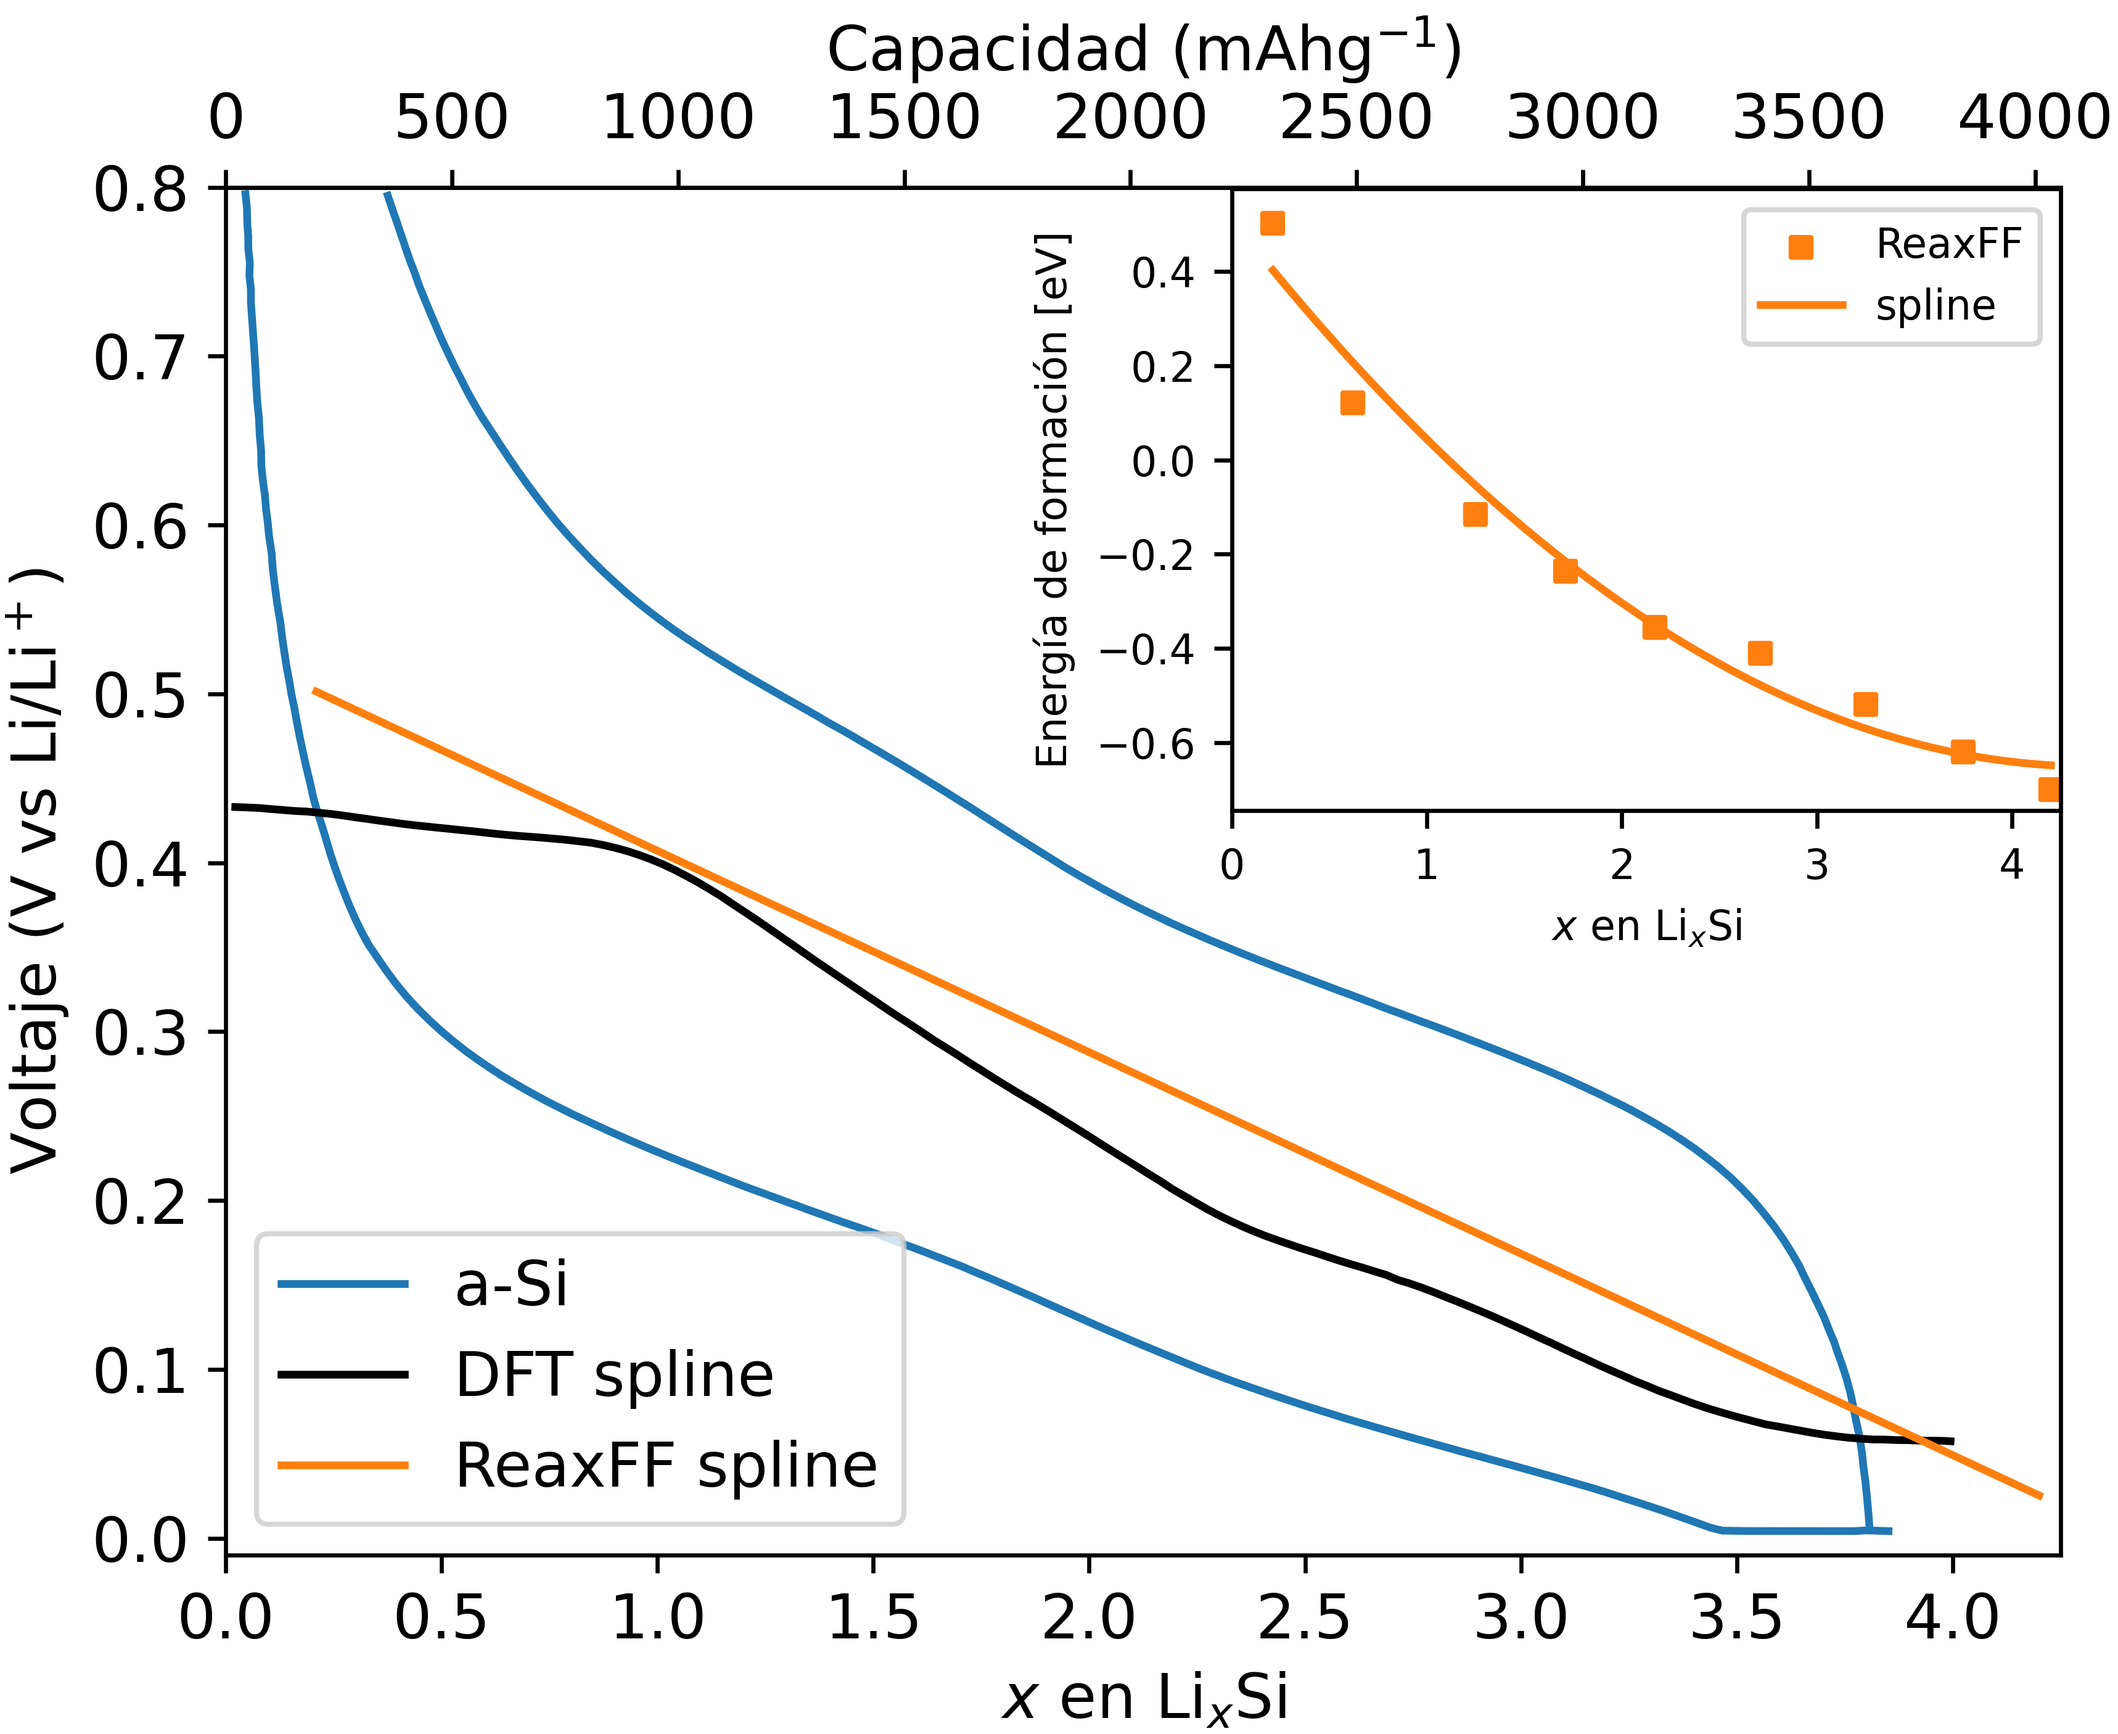
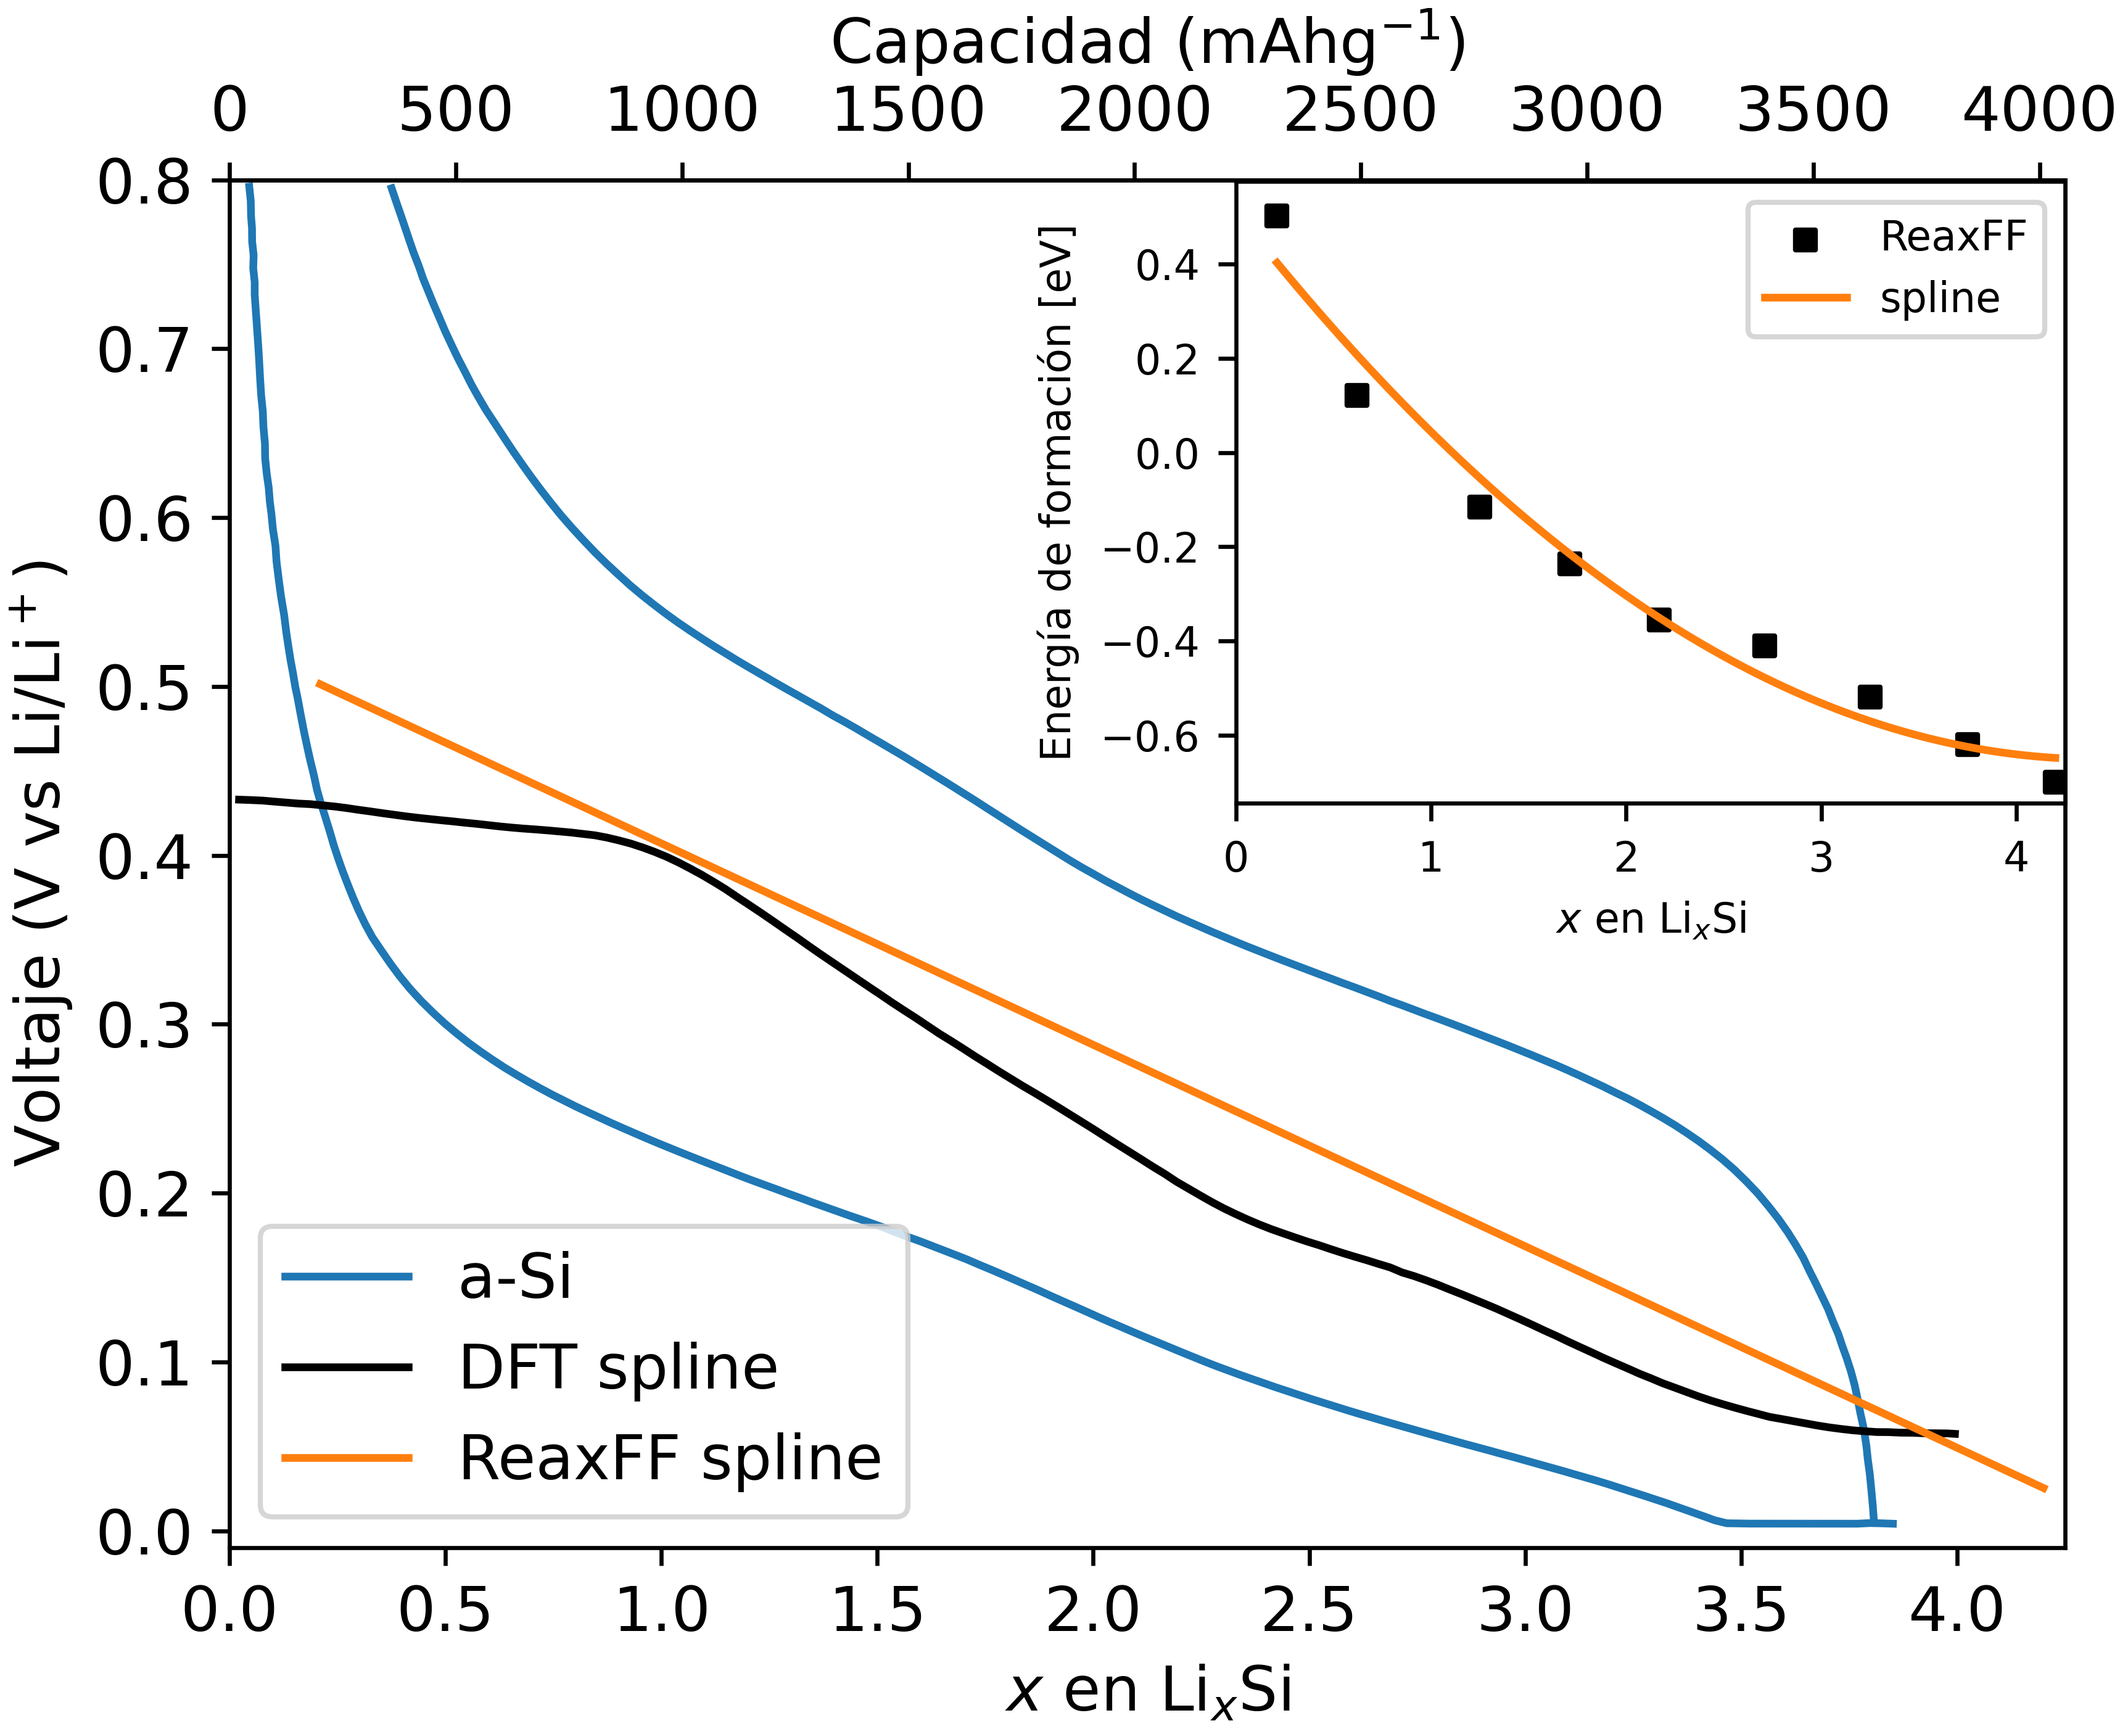
colores

diff --git a/src/Silicio/prediccion/resultados/nmr/viz.py b/src/Silicio/prediccion/resultados/nmr/viz.py
@@ -12,13 +12,13 @@ rsi = 0.25
 si_centers = [(0, 2.5), (2.7, 2.5), (0, -2), (-4, 4)]
 
 silicons = (
-    [plt.Circle(si_centers[0], rsi, color="tab:cyan", label="Si")]
-    + [plt.Circle(center, rsi, color="tab:cyan") for center in si_centers[1:]]
+    [plt.Circle(si_centers[0], rsi, color="tab:blue", label="Si")]
+    + [plt.Circle(center, rsi, color="tab:blue") for center in si_centers[1:]]
     + [
         plt.Circle(
             (center[0] + img[0], center[1] + img[1]),
             radius=rsi,
-            color="tab:cyan",
+            color="tab:blue",
             alpha=0.5,
         )
         for center, img in it.product(si_centers, pbc)
@@ -40,13 +40,13 @@ li_centers = [
     (2.8, 0.9),
 ]
 lithiums = (
-    [plt.Circle((li_centers[0]), rli, color="tab:pink", label="Li")]
-    + [plt.Circle(center, rli, color="tab:pink") for center in li_centers[1:]]
+    [plt.Circle((li_centers[0]), rli, color="tab:green", label="Li")]
+    + [plt.Circle(center, rli, color="tab:green") for center in li_centers[1:]]
     + [
         plt.Circle(
             (center[0] + img[0], center[1] + img[1]),
             radius=rli,
-            color="tab:pink",
+            color="tab:green",
             alpha=0.5,
         )
         for center, img in it.product(li_centers, pbc)
@@ -55,7 +55,7 @@ lithiums = (
 
 rcuts = [
     plt.Circle(
-        center, 3.4, color="tab:pink", linestyle="dashed", linewidth=2, fill=False
+        center, 3.4, color="tab:green", linestyle="dashed", linewidth=2, fill=False
     )
     for center in li_centers
 ]
@@ -77,11 +77,11 @@ for circ in silicons + lithiums + rcuts[:3]:
     ax.add_patch(circ)
 
 # silicon bonds
-ax.plot([0, 2.7], [2.5, 2.5], color="tab:cyan")
+ax.plot([0, 2.7], [2.5, 2.5], color="tab:blue")
 # images
-ax.plot([-10 + rsi, -7.3 - rsi], [2.5, 2.5], color="tab:cyan", alpha=0.5)
-ax.plot([rsi, 2.7 - rsi], [-7.5, -7.5], color="tab:cyan", alpha=0.5)
-ax.plot([-10 + rsi, -7.3 - rsi], [-7.5, -7.5], color="tab:cyan", alpha=0.5)
+ax.plot([-10 + rsi, -7.3 - rsi], [2.5, 2.5], color="tab:blue", alpha=0.5)
+ax.plot([rsi, 2.7 - rsi], [-7.5, -7.5], color="tab:blue", alpha=0.5)
+ax.plot([-10 + rsi, -7.3 - rsi], [-7.5, -7.5], color="tab:blue", alpha=0.5)
 
 ax.set_xlim((-10, 10))
 ax.set_ylim((-10, 10))

diff --git a/src/Silicio/caracterizacion/resultados/cn/cn.tex b/src/Silicio/caracterizacion/resultados/cn/cn.tex
@@ -14,7 +14,7 @@ corte de 3 \AA. Lo mismo se realizó para Li-Li definiendo un radio de corte de
 4 \AA. Para el caso de Si-Li se utilizó el criterio de considerar como radio de 
 corte el valor $r$ para el cual la $g(r)$ presenta un mínimo entre los dos picos
 a primeros y segundo vecinos. Los resultados se muestran en la Figura 
-\ref{fig:cns}a.
+\ref{fig:cn}a.
 
 Para el caso del CN$_{\text{Si}-\text{Si}}$, se tiene que esta cantidad decrece de 4 a 2, a 
 medida que la concentración de Li aumenta. Esto indica que a valores pequeños de 
@@ -31,17 +31,17 @@ que se asemejan al valor de una estructura de empaquetamiento compacto.
 
 \begin{figure}[h]
     \centering
-    \includegraphics[width=\textwidth]{Silicio/caracterizacion/resultados/cn/cns.png}
+    \includegraphics[width=\textwidth]{Silicio/caracterizacion/resultados/cn/cn.png}
     \caption{Número de coordinación en función de la concentración de litio para
     Li-Li, Si-Si y Si-Li. Como radios de corte se utilizaron las distancias 
     del pico de la RDF correspondiente. En los casos en que no se aprecia la barra
     de error, la misma es menor que el tamaño de los puntos. (a) Primero número 
     de coordinación. (b) Segundo número de coordinación.}
-    \label{fig:cns}
+    \label{fig:cn}
 \end{figure}
 
 Los resultados para el segundo número de coordinación se presentan en la Figura 
-\ref{fig:cns}b. Estos resultados se obtuvieron considerando un cascarón con un 
+\ref{fig:cn}b. Estos resultados se obtuvieron considerando un cascarón con un 
 radio de corte interno y otro externo, elegidos de manera tal que incluyan el 
 segundo pico de la RDF. La elección de dichos valores varió dependiendo del tipo
 de átomos que se consideraron. En todos ellos se tomó como radio de corte interno 

diff --git a/src/Silicio/caracterizacion/resultados/rdf/rdf.py b/src/Silicio/caracterizacion/resultados/rdf/rdf.py
@@ -7,7 +7,7 @@ import numpy as np
 
 import pandas as pd
 
-def _color_fader(mix, first_color="tab:cyan", second_color="tab:pink"):
+def _color_fader(mix, first_color="tab:blue", second_color="tab:green"):
     """Color fader function."""
     c1 = np.array(matplotlib.colors.to_rgb(first_color))
     c2 = np.array(matplotlib.colors.to_rgb(second_color))
@@ -25,8 +25,8 @@ fig, ax = plt.subplots(nrows=1, ncols=3, figsize=(12, 4))
 
 cmap = _colormap()
 
-sm = plt.cm.ScalarMappable(cmap=cmap, norm=plt.Normalize(vmin=0, vmax=3.75))
-clb = fig.colorbar(sm, ax=ax[0], ticks=[0, 1, 2, 3, 3.75], location="left")
+sm = plt.cm.ScalarMappable(cmap=cmap, norm=plt.Normalize(vmin=0, vmax=4.2))
+clb = fig.colorbar(sm, ax=ax[0], ticks=[0, 1, 2, 3, 4.0], location="left")
 clb.ax.set_ylabel(r"$x$ en Li$_x$Si")
 
 xs = ["0.21", "0.62", "1.25", "1.71", "2.17", "2.71", "3.25", "3.75", "4.20"]
@@ -34,7 +34,7 @@ for k, (weight, central, interact) in enumerate(zip([1, 1, 5], ["Li", "Si", "Si"
 
     for i, x in enumerate(xs):
         rdfx, rdfy = np.loadtxt(f"data/{central}{interact}/{x}.dat", unpack=True)
-        ax[k].plot(rdfx, rdfy + i * weight, color=cmap(float(x) / 3.75))
+        ax[k].plot(rdfx, rdfy + i * weight, color=cmap(float(x) / 4.2))
 
     ax[k].set_xlabel(r"r [$\AA$]")
     ax[k].set_ylabel("")

diff --git a/src/Silicio/prediccion/resultados/mossbauer/mossbauer.py b/src/Silicio/prediccion/resultados/mossbauer/mossbauer.py
@@ -18,12 +18,12 @@ for experimento, l in zip(["e", "f"], ["datos experimentales", None]):
 
 xglobal = np.linspace(0, 4, num=500)
 yglobal = 0.15 + 2.4 * (0.5 - np.abs((xglobal / (1 + xglobal)) - 0.5))
-ax.plot(xglobal, yglobal, color="tab:pink", ls="--", label="concentraciones globales")
-ax.text(0.35, 1.0, r"C$_{Li}$", rotation=60, color="tab:pink", fontsize="large")
-ax.text(1.85, 1.0, r"C$_{Si}$", rotation=-30, color="tab:pink", fontsize="large")
+ax.plot(xglobal, yglobal, color="tab:orange", ls="--", label="concentraciones globales")
+ax.text(0.35, 1.0, r"C$_{Li}$", rotation=60, color="tab:orange", fontsize="large")
+ax.text(1.85, 1.0, r"C$_{Si}$", rotation=-30, color="tab:orange", fontsize="large")
 
 df = pd.read_csv("datos/mossbauer.csv")
-ax.scatter(df.x, df.delta, s=50, color="tab:cyan", label="concentraciones locales")
+ax.scatter(df.x, df.delta, s=50, color="tab:blue", label="concentraciones locales")
 
 ax.set_xlim((0, 4))
 ax.set_ylim((0.15, 1.35))

diff --git a/src/Silicio/caracterizacion/resultados/clusters/clusters.py b/src/Silicio/caracterizacion/resultados/clusters/clusters.py
@@ -9,8 +9,8 @@ import numpy as np
 
 
 def color_fader(mix):
-    nordblue = np.array(colors.to_rgb("tab:cyan"))
-    nordgreen = np.array(colors.to_rgb("tab:pink"))
+    nordblue = np.array(colors.to_rgb("tab:blue"))
+    nordgreen = np.array(colors.to_rgb("tab:green"))
     return colors.to_hex((1 - mix) * nordblue + mix * nordgreen)
 
 
@@ -18,7 +18,6 @@ plt.rcParams.update({"font.size": 16})
 
 concentraciones = [0.21, 0.62, 1.25, 1.71, 2.17, 2.71, 3.25, 3.75, 4.2]
 nsis = [667, 670, 671, 672, 319, 319, 320, 288, 320]
-n = len(concentraciones)
 
 fig, ax = plt.subplots(ncols=2, figsize=(13, 5))
 
@@ -36,7 +35,7 @@ markers = ["o", "v", "^", "<", ">", "s", "d", "D", "X"]
 for i, (x, m, natoms) in enumerate(zip(concentraciones, markers, nsis)):
     rcut, nclusters, lcluster, isolatedp = np.loadtxt(f"data/{x}.dat", unpack=True)
 
-    color = color_fader(i / n)
+    color = color_fader(x / 4.2)
 
     ax[0].plot(
         rcut,

diff --git a/src/Silicio/caracterizacion/resultados/sro/sro.py b/src/Silicio/caracterizacion/resultados/sro/sro.py
@@ -20,9 +20,9 @@ ax.grid(axis="y", linestyle=":")
 ax.set_xlim((0, 4.25))
 
 x, sili, lili, sisi = np.loadtxt("theta.dat", unpack=True)
-plt.plot(x, lili, marker="o", color="tab:pink", linestyle="dashed", label="LiLi")
-plt.plot(x, sili, marker="^", color="tab:purple", linestyle="dashed", label="SiLi")
-plt.plot(x, sisi, marker="s", color="tab:cyan", linestyle="dashed", label="SiSi")
+plt.plot(x, lili, marker="o", color="tab:green", linestyle="dashed", label="LiLi")
+plt.plot(x, sili, marker="^", color="tab:orange", linestyle="dashed", label="SiLi")
+plt.plot(x, sisi, marker="s", color="tab:blue", linestyle="dashed", label="SiSi")
 
 ax.legend()
 fig.tight_layout()

diff --git a/src/Silicio/caracterizacion/resultados/cn/cn.py b/src/Silicio/caracterizacion/resultados/cn/cn.py
@@ -20,7 +20,7 @@ for axis in ax:
     axis.set_xlim((0, 4.25))
 
 interacciones = ["LiLi", "SiLi", "SiSi"]
-colores = ["tab:pink", "tab:purple", "tab:cyan"]
+colores = ["tab:green", "tab:orange", "tab:blue"]
 markers = ["o", "^", "s"]
 for e, c, m in zip(interacciones, colores, markers):
     x, y, yerr = np.loadtxt(f"data/cn/{e}.dat", unpack=True)
@@ -57,4 +57,4 @@ ax[0].text(0.0, 1.15, "(a)", transform=ax[0].transAxes)
 ax[1].text(0.92, 1.15, "(b)", transform=ax[1].transAxes)
 
 fig.tight_layout()
-fig.savefig("cns.png", dpi=600)
+fig.savefig("cn.png", dpi=600)

diff --git a/src/Silicio/prediccion/resultados/nmr/c-nmr.py b/src/Silicio/prediccion/resultados/nmr/c-nmr.py
@@ -16,7 +16,7 @@ aleaciones = ["Li12Si7", "Li7Si3", "Li13Si4", "Li15Si4"]
 for k, aleacion in enumerate(aleaciones):
     df = pd.read_csv(f"datos/c-{aleacion}.csv")
 
-    ax.plot(df.ppm, df.pred, color="tab:cyan", linewidth=3, zorder=1)
+    ax.plot(df.ppm, df.pred, color="tab:blue", linewidth=3, zorder=1)
     ax.scatter(df.ppm, df.exp, s=5, color="k", zorder=2)
 
     ax.text(-30, 7.5 + 2.1 * (k + 0.2), aleacion)

diff --git a/src/Silicio/prediccion/resultados/nmr/a-nmr.py b/src/Silicio/prediccion/resultados/nmr/a-nmr.py
@@ -20,7 +20,7 @@ voltajes = ["000", "050", "085", "095", "100", "105"]
 for x, volt in zip(xs, voltajes):
     df = pd.read_csv(f"datos/{volt}.csv")
 
-    ax.plot(df.ppm, df.pred, color="tab:cyan", linewidth=3, zorder=1)
+    ax.plot(df.ppm, df.pred, color="tab:blue", linewidth=3, zorder=1)
     ax.scatter(df.ppm, df.exp, s=5, color="k", zorder=2)
 
     ax.text(-20, 0.3 + df.exp[0], f"{volt} mV ~ x={x:.2f}")

diff --git a/src/Silicio/caracterizacion/resultados/electroquimica/voltaje.py b/src/Silicio/caracterizacion/resultados/electroquimica/voltaje.py
@@ -46,7 +46,7 @@ ax2.set_xlim((0, 4.25))
 ax2.set_xlabel(r"$x$ en Li$_x$Si", fontsize=fontsize)
 ax2.set_ylabel("Energía de formación [eV]", fontsize=fontsize)
 
-ax2.scatter(xfe, fe, color="tab:orange", marker="s", s=15, label="ReaxFF")
+ax2.scatter(xfe, fe, color="k", marker="s", s=15, label="ReaxFF")
 ax2.plot(x, fes, color="tab:orange", label="spline")
 
 ax2.legend(prop={"size": fontsize})

diff --git a/src/Silicio/modelo/resultados/residuos/residuos.py b/src/Silicio/modelo/resultados/residuos/residuos.py
@@ -19,7 +19,7 @@ ax[0].plot(cristales.x, 1e-2 * cristales.B, color="tab:green", ls="solid", label
 ax[0].set_xlim((0, 1))
 ax[0].set_xlabel("Fracción molar de Si")
 ax[0].set_ylim((0, 9e-2))
-ax[0].set_ylabel("Residuos de la energía de formación (eV)")
+ax[0].set_ylabel(r"|$E_f^{DFT}$ - $E_f^{DFTB}$| (eV)")
 
 ax[0].text(0.0, 1.05, "(a)", transform=ax[0].transAxes)
 

diff --git a/src/Silicio/prediccion/resultados/xray/prdfs.py b/src/Silicio/prediccion/resultados/xray/prdfs.py
@@ -7,7 +7,7 @@ import numpy as np
 
 import pandas as pd
 
-def _color_fader(mix, first_color="tab:cyan", second_color="tab:pink"):
+def _color_fader(mix, first_color="tab:blue", second_color="tab:green"):
     """Color fader function."""
     c1 = np.array(matplotlib.colors.to_rgb(first_color))
     c2 = np.array(matplotlib.colors.to_rgb(second_color))
